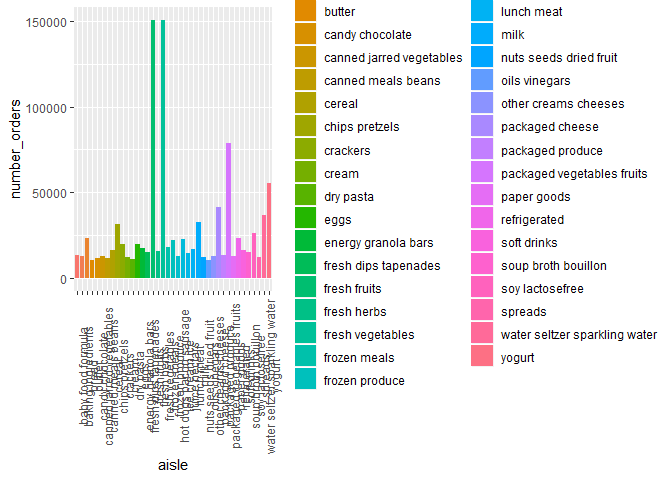
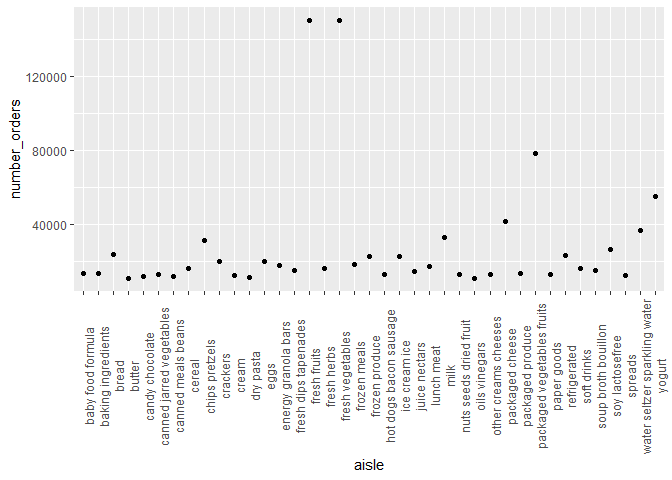
updated my plot for number_orders versus aisle such that it's more readable

diff --git a/p8105_hw3_nk2814_new.md b/p8105_hw3_nk2814_new.md
@@ -87,8 +87,8 @@ instacart %>%
   ) %>% 
   arrange(desc(number_orders)) %>% 
   filter(number_orders > 10000) %>% 
-  ggplot(aes(x=aisle, y=number_orders, fill=aisle))+
-  geom_col()+ theme(axis.text.x = element_text(angle = 90))
+  ggplot(aes(x=aisle, y=number_orders))+
+  geom_point() + theme(axis.text.x = element_text(angle = 90))
 ```
 
 ![](p8105_hw3_nk2814_new_files/figure-gfm/unnamed-chunk-3-1.png)<!-- -->
